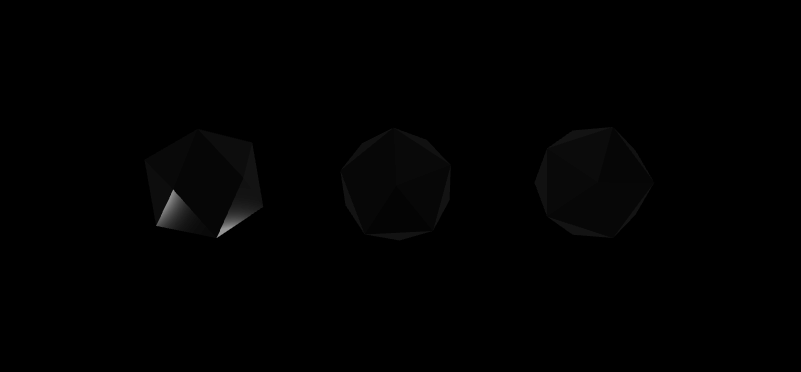
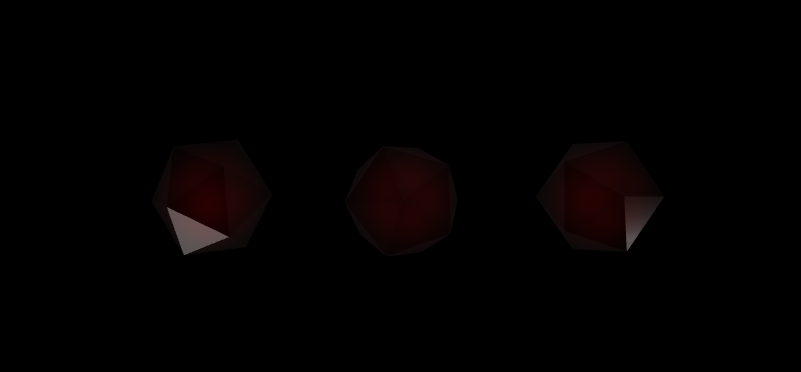
no

Changed region(s): [[0.1873, 0.4731, 0.3121, 0.6801], [0.7179, 0.4435, 0.8427, 0.6801], [0.4682, 0.4435, 0.5618, 0.621]]

diff --git a/shaders/FragmentShader.ts b/shaders/FragmentShader.ts
@@ -4,13 +4,14 @@ precision mediump float;
 
 in vec4 vColor;
 in vec4 vNormal;
-in vec4 vPosition;
+in vec3 vPosition;
+in vec3 center;
 
 out vec4 fColor;
 
 float calcSpecular(vec3 ligth) {
     vec3 norm = vec3(vNormal);
-    vec3 camera = normalize(vec3(vPosition));
+    vec3 camera = normalize(vPosition);
     vec3 ligthReflected = reflect(ligth, norm);
 
     float diffuse = max(0.0, dot(norm, ligth));
@@ -23,9 +24,20 @@ void main(void) {
     float spec2 = calcSpecular(normalize(vec3(-0.5, 0.3, 0.2)));
     float spec3 = calcSpecular(normalize(vec3(0.5, 0.3, 0.2)));
 
+    float dist = distance(center, vPosition);
+    float heat = pow(1.0 / (dist + 1.0) * 1.2, 10.0) * 5.0;
+
+    vec3 surfaceToCenter = normalize(center - vPosition);
+    vec3 cameraToSurface = normalize(vPosition);
+    vec3 negNormal = vec3(vNormal) * -1.0;
+    cameraToSurface = cameraToSurface * 0.5 + negNormal * 0.5;
+
+    float heat2 = pow(max(0.0, dot(surfaceToCenter, cameraToSurface)) * 0.6, 4.0) + heat * 0.2;
+
     float specular = spec1 + spec2 + spec3 + 0.005;
 
-    fColor = vec4(specular, specular, specular, 1.0);
+    //fColor = vec4(specular + heat2, specular + heat2 * 0.4, specular + heat2 * 0.1, 1.0);
+    fColor = vec4(specular + heat2 * vColor.r, specular + heat2 * vColor.g, specular + heat2 * vColor.b, 1.0);
 }
 
 `

diff --git a/shaders/VertexShader.ts b/shaders/VertexShader.ts
@@ -12,19 +12,22 @@ uniform mat4 ProjectionView;
 
 out vec4 vColor;
 out vec4 vNormal;
-out vec4 vPosition;
-
+out vec3 vPosition;
+out vec3 center;
 void main(void) {
     if (isInstance == 0) {
         gl_Position = ProjectionView * Model * vec4(position, 1.0);
         vNormal = transpose(inverse(Model)) * vec4(normal, 1.0);
+        center = vec3(Model[3]);
+        vPosition = vec3(Model * vec4(position, 1.0));
     } else {
         gl_Position = ProjectionView * ModelInstance[gl_InstanceID] * vec4(position, 1.0);
         vNormal =  transpose(inverse(ModelInstance[gl_InstanceID])) * vec4(normal, 1.0);
+        center = vec3(ModelInstance[gl_InstanceID][3]);
+        vPosition = vec3(ModelInstance[gl_InstanceID] * vec4(position, 1.0));
     }
 
     vColor = vec4(color, 1.0);
-    vPosition = gl_Position;
 }
 
 `
